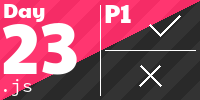
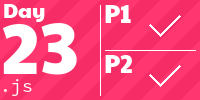
Add day 23 2016

diff --git a/2016/day-23/test.js b/2016/day-23/test.js
@@ -15,6 +15,6 @@ test('Day 23 — Sample', t => {
 })
 
 test('Day 23 — Solutions', t => {
-  // t.is(run(input, 7), 11739)
-  t.is(run(input, 12), 11739)
+  t.is(run(input, 7), 11739)
+  // t.is(run(input, 12), 479008299) // Takes several minutes…
 })

diff --git a/README.md b/README.md
@@ -470,7 +470,7 @@
   <img src="Media/2017/25.png" alt="Day 25 2017: Complete" width="161px">
 </a>
 <h1 align="center">
-  2016 - 42 ⭐
+  2016 - 43 ⭐
 </h1>
 <a href="2016/day-01/index.js">
   <img src="Media/2016/01.png" alt="Day 1 2016: Complete" width="161px">
@@ -539,7 +539,7 @@
   <img src="Media/2016/22.png" alt="Day 22 2016: Partially complete" width="161px">
 </a>
 <a href="2016/day-23/index.js">
-  <img src="Media/2016/23.png" alt="Day 23 2016: Partially complete" width="161px">
+  <img src="Media/2016/23.png" alt="Day 23 2016: Complete" width="161px">
 </a>
 <a href="2016/day-24/index.js">
   <img src="Media/2016/24.png" alt="Day 24 2016: Incomplete" width="161px">
